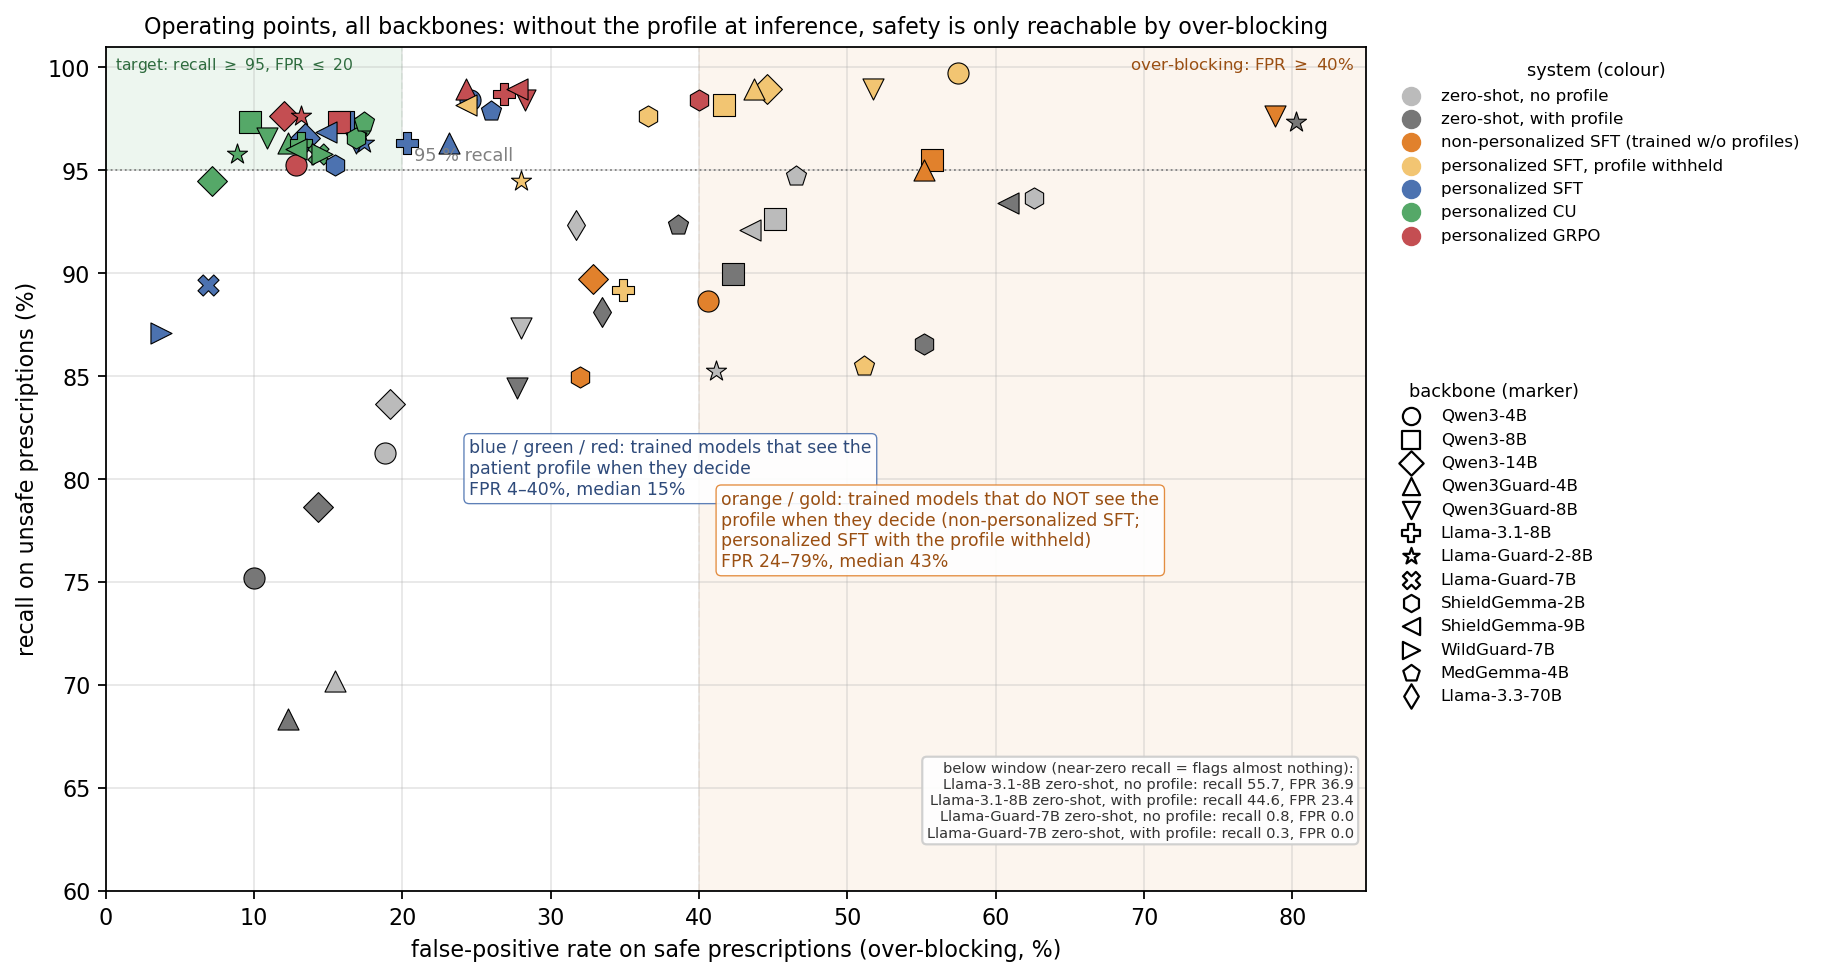
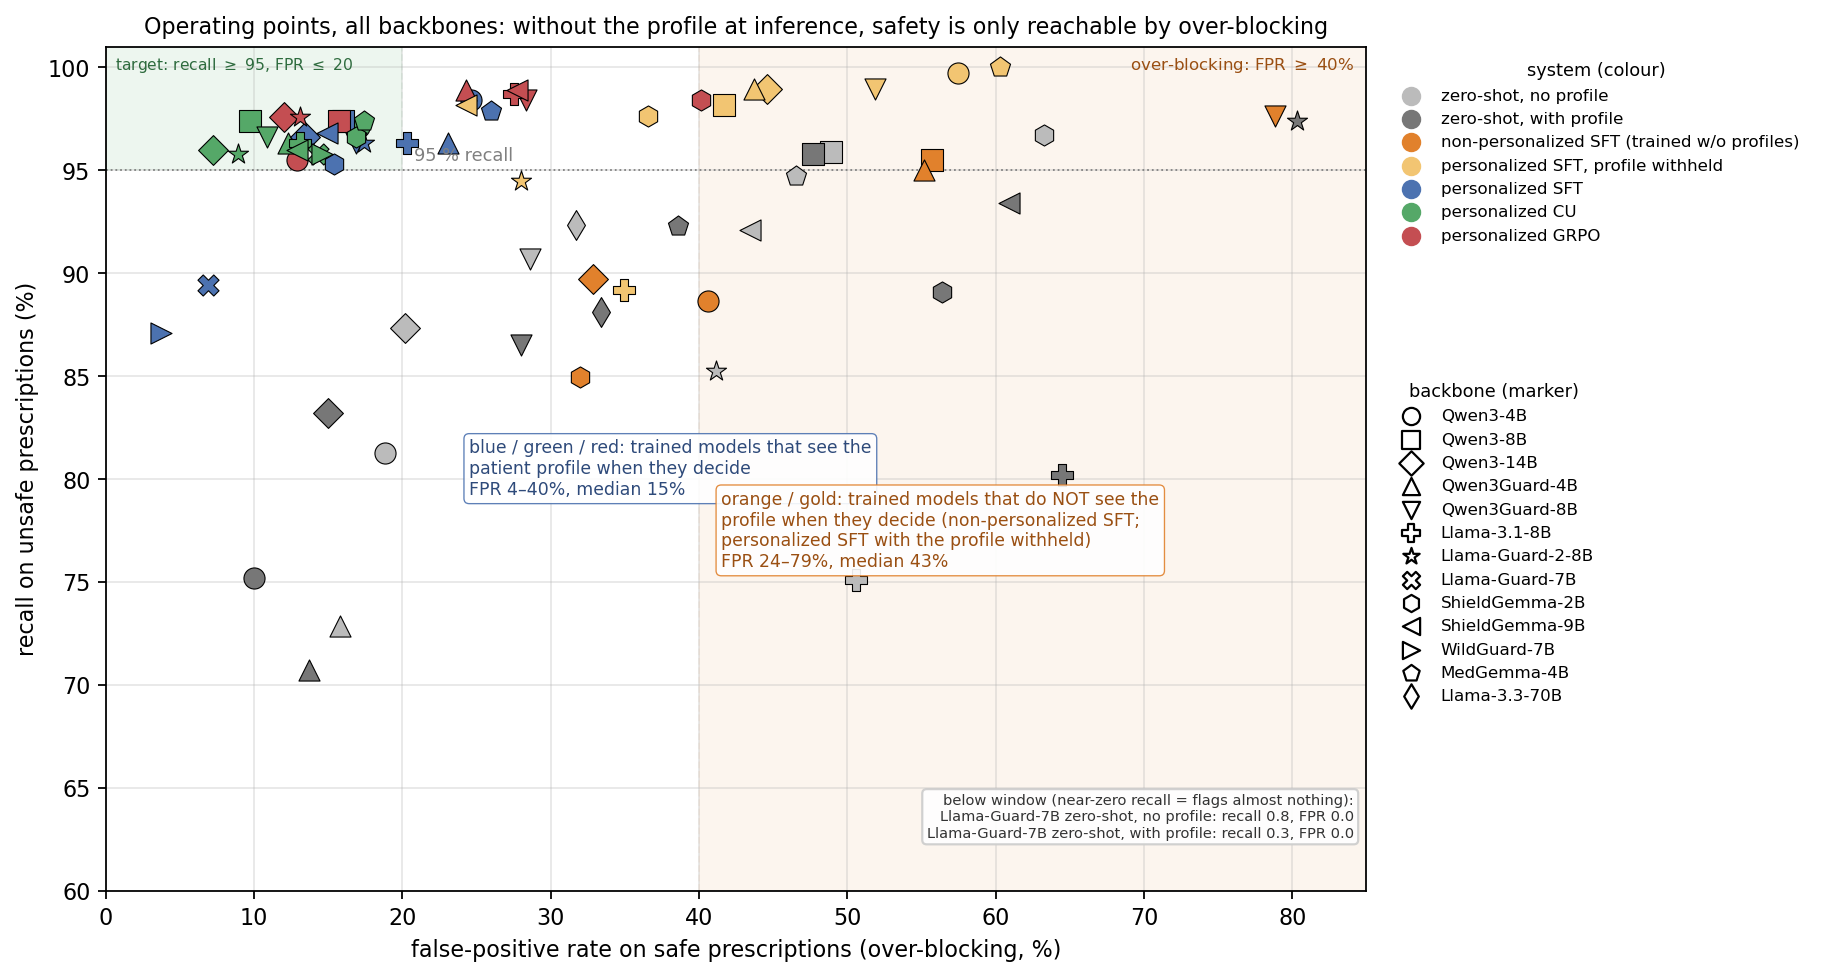
Rescore re-generated zero-shot runs on the 729 split; add WildGuard to per-category table generator; per-run unparsable table; regenerate operating-points figure under abstention

diff --git a/Claude/Ablation/plot_operating_points_all.py b/Claude/Ablation/plot_operating_points_all.py
@@ -18,6 +18,7 @@ Outputs (Claude/Ablation/report/):
 import argparse
 import csv
 import glob
+import json
 import os
 import sys
 
@@ -86,7 +87,10 @@ def main():
     gold = load_gold("true"); n = len(gold)
     gv = np.array([g[0] for g in gold]); gc = np.array([[g[1][c] for c in RISK_CATEGORIES] for g in gold])
     import recompute_729 as R
+    from rescore_regen_base_729 import DRIFT_ROWS
     _, keep = R.keep_mask()
+    keep = np.asarray(keep, dtype=bool).copy()
+    keep[DRIFT_ROWS] = False
     idx = np.flatnonzero(keep)
     print(f"scoring the {len(idx)}-row drug-disjoint test split (dropped {n - len(idx)} cross-split rows)")
 
@@ -99,9 +103,9 @@ def main():
         p = os.path.join(ROOT, "Claude/SFT/new_outputs", run, "test_predictions_sft.jsonl")
         if os.path.exists(p):
             runs[(model, "sft-noprofile", "nonpersonalized")] = p
-    from audit_729 import load_any, table1_files
-    for (model, arm), p in table1_files().items():
-        runs[(model, arm, "true")] = p
+    from audit_729 import DIRKEY, load_any
+    for k in DIRKEY.values():
+        runs.pop((k, "base", "true"), None)  # Table 1 cells come from the authoritative scores below
 
     res = {}
     for k, p in sorted(runs.items()):
@@ -110,7 +114,26 @@ def main():
             print(f"  skip {k}: {n_rows}/{n} rows"); continue
         if not parsed.any():
             print(f"  skip {k}: no parsable verdicts"); continue
-        res[k] = metrics(gv, gc, pv, pc, idx)
+        res[k] = metrics(gv, gc, pv, pc, idx[parsed[idx]])  # unparsable rows excluded, as in the tables
+
+    # Truncated prediction files: fall back to the Table 7 (profile perturbation) scores
+    prof = json.load(open(os.path.join(R.OUT_DIR, "paper", "profile_729_abstain.json")))
+    for k in runs:
+        c = prof.get("|".join(k))
+        if k not in res and c and c.get("rec") is not None:
+            res[k] = {"recall": c["rec"] / 100, "fpr": c["fpr"] / 100, "acc": c["acc"] / 100, "macro_f1": c["mac"] / 100}
+            print(f"  {k}: using Table 7 scores")
+
+    # Table 1 cells: same scores as the typeset table (some prediction files are no longer on disk)
+    main = json.load(open(os.path.join(R.OUT_DIR, "paper", "main_729_abstain.json")))
+    for key, c in json.load(open(os.path.join(R.OUT_DIR, "paper", "regen_base_729_abstain.json"))).items():
+        main[key][0] = c
+    main["lg2"][0] = {"rec": 97.4, "fpr": 80.3, "acc": 60.1, "mac": 0.0}  # outputs/llamaguard2-8b/base/true
+    for key, arms in main.items():
+        for arm, c in zip(ARMS, arms):
+            if c and c.get("rec") is not None:
+                res[(DIRKEY[key], arm, "true")] = {"recall": c["rec"] / 100, "fpr": c["fpr"] / 100,
+                                                   "acc": c["acc"] / 100, "macro_f1": c["mac"] / 100}
 
     pts = []  # (model, system, metrics)
     for model in MODEL_ORDER:

diff --git a/Claude/Ablation/emit_unparsable_table.py b/Claude/Ablation/emit_unparsable_table.py
@@ -1,0 +1,48 @@
+#!/usr/bin/env python3
+"""Emit the complete per-run unparsable/scored table (Appendix F) for every cell of
+Table 1 (main_729_abstain.json + regen_base_729_abstain.json) and every
+non-personalized control of Table 6 (np_729_abstain.json). Prints LaTeX rows."""
+import json
+import os
+import sys
+
+sys.path.insert(0, os.path.dirname(os.path.abspath(__file__)))
+import recompute_729 as R
+
+PAPER = os.path.join(R.OUT_DIR, "paper")
+N = 729
+MAIN = json.load(open(os.path.join(PAPER, "main_729_abstain.json")))
+for k, c in json.load(open(os.path.join(PAPER, "regen_base_729_abstain.json"))).items():
+    MAIN[k][0] = c
+MAIN["lg2"][0] = {"n_unpars": 0, "n_scored": N}  # rescored from outputs/llamaguard2-8b/base/true
+NP = json.load(open(os.path.join(PAPER, "np_729_abstain.json")))["rows"]
+
+ORDER = [("q4", "Qwen3-4B"), ("q8", "Qwen3-8B"), ("q14", "Qwen3-14B"), ("l31", "Llama-3.1-8B"),
+         ("g4", "Qwen3Guard-4B"), ("g8", "Qwen3Guard-8B"), ("s2", "ShieldGemma-2B"),
+         ("s9", "ShieldGemma-9B"), ("lg2", "Llama-Guard-2-8B"), ("lg7", "Llama-Guard-7B"),
+         ("wg", "WildGuard-7B"), ("mg", "MedGemma-4B"), ("l70", "Llama-3.3-70B")]
+NP_ORDER = [("q4", "Qwen3-4B"), ("q8", "Qwen3-8B"), ("q14", "Qwen3-14B"),
+            ("g4", "Qwen3Guard-4B"), ("g8", "Qwen3Guard-8B"), ("s2", "ShieldGemma-2B")]
+
+
+def cell(c):
+    if not c or c.get("n_unpars") is None:
+        return "--"
+    u, n = c["n_unpars"], c["n_scored"]
+    assert u + n == N, c
+    return f"{u}/{n}"
+
+
+def main():
+    print("% Table 1 runs: Base & SFT & CU & GRPO")
+    for k, name in ORDER:
+        arms = MAIN[k] + [None] * (4 - len(MAIN[k]))
+        print(f"{name} & " + " & ".join(cell(a) for a in arms[:4]) + " \\\\")
+    print("% Table 6 controls: ZS no profile & NP SFT & NP CU & NP GRPO")
+    for k, name in NP_ORDER:
+        cols = [NP.get(f"{k}|{a}") for a in ("zs_np", "np_sft", "np_cu", "np_grpo")]
+        print(f"{name} & " + " & ".join(cell(c) for c in cols) + " \\\\")
+
+
+if __name__ == "__main__":
+    main()

diff --git a/Claude/Ablation/gen_percat_abstain.py b/Claude/Ablation/gen_percat_abstain.py
@@ -10,6 +10,9 @@ import recompute_729 as R
 
 PAPER = os.path.join(R.OUT_DIR, "paper")
 MAIN = json.load(open(os.path.join(PAPER, "main_729_abstain.json")))
+# Table 1 zero-shot rows for these backbones are the re-generated runs (rescore_regen_base_729.py)
+for _k, _c in json.load(open(os.path.join(PAPER, "regen_base_729_abstain.json"))).items():
+    MAIN[_k][0] = _c
 
 CATS = [
     "Drug-Drug Interaction Risk", "Cardiac Impairment Risk", "Dosage & Toxicity Risk",
@@ -55,17 +58,14 @@ def getcol(m, ai):
     return MAIN[m][ai]
 
 
-# panel specs: (model, n_arms)
-PANEL_A = [("q4", 4), ("q8", 4), ("q14", 4), ("g4", 4), ("g8", 4)]
-PANEL_B = [("l31", 4), ("lg7", 3), ("lg2", 4), ("s2", 4), ("s9", 4), ("mg", 3)]
+# panel specs: (model, arm indices); 0=Base 1=SFT 2=CU 3=GRPO
+ALL4, NO_GRPO = (0, 1, 2, 3), (0, 1, 2)
+PANEL_A = [("q4", ALL4), ("q8", ALL4), ("q14", ALL4), ("g4", ALL4), ("g8", ALL4), ("wg", (1, 2))]
+PANEL_B = [("l31", ALL4), ("lg7", NO_GRPO), ("lg2", ALL4), ("s2", ALL4), ("s9", ALL4), ("mg", NO_GRPO)]
 
 
 def cols_for(panel):
-    out = []
-    for m, n in panel:
-        for ai in range(n):
-            out.append(getcol(m, ai))
-    return out
+    return [getcol(m, ai) for m, arms in panel for ai in arms]
 
 
 def emit(cols, other):
@@ -93,8 +93,8 @@ print("\n".join(emit(cols_b, cols_a)))
 
 # unparsable diagnostics
 print("\n=== n_unpars per column ===")
-for m, n in PANEL_A + PANEL_B:
-    for ai in range(n):
+for m, arms in PANEL_A + PANEL_B:
+    for ai in arms:
         c = getcol(m, ai)
         if c:
             print(f"{m} arm{ai}: unpars={c.get('n_unpars')} mic={c.get('mic')} mac={c.get('mac')}")

diff --git a/Claude/Ablation/rescore_regen_base_729.py b/Claude/Ablation/rescore_regen_base_729.py
@@ -1,0 +1,42 @@
+#!/usr/bin/env python3
+"""Score the re-generated zero-shot base runs (Qwen3Guard-4B/8B, Llama-3.1-8B) on
+the paper's 729-row drug-disjoint split under the abstention convention.
+
+The current drugplot mapping keeps 732 rows; the extra three (idx 233-235, matched
+to "Other"/"Metoprolol") were not in the split the paper's cells were scored on.
+Dropping them reproduces every cell of main_729_abstain.json exactly.
+
+Writes report/recompute_729/paper/regen_base_729_abstain.json.
+"""
+import json
+import os
+import sys
+
+import numpy as np
+
+sys.path.insert(0, os.path.dirname(os.path.abspath(__file__)))
+import abstain_paper_729 as A
+
+DRIFT_ROWS = [233, 234, 235]
+RUNS = {
+    "g4": "Claude/Ablation/outputs_rerun4k/qwen3guard-4b/base/true/test_predictions.jsonl",
+    "g8": "Claude/Ablation/outputs_rerun4k/qwen3guard-8b/base/true/test_predictions.jsonl",
+    "l31": "Claude/Ablation/outputs_rerun4k/llama31-8b/base/true/test_predictions.jsonl",
+}
+
+
+def main():
+    keep = np.asarray(A.KEEP, dtype=bool).copy()
+    keep[DRIFT_ROWS] = False
+    A.KEEP, A.KEPT = keep, np.flatnonzero(keep)
+    assert len(A.KEPT) == 729
+    out = {k: A.cell_abstain(rel) for k, rel in RUNS.items()}
+    path = os.path.join(A.PAPER, "regen_base_729_abstain.json")
+    json.dump(out, open(path, "w"), indent=1)
+    for k, c in out.items():
+        print(k, {x: c[x] for x in ("acc", "rec", "fpr", "mic", "mac", "em", "n_unpars", "n_scored")})
+    print("wrote", path)
+
+
+if __name__ == "__main__":
+    main()
